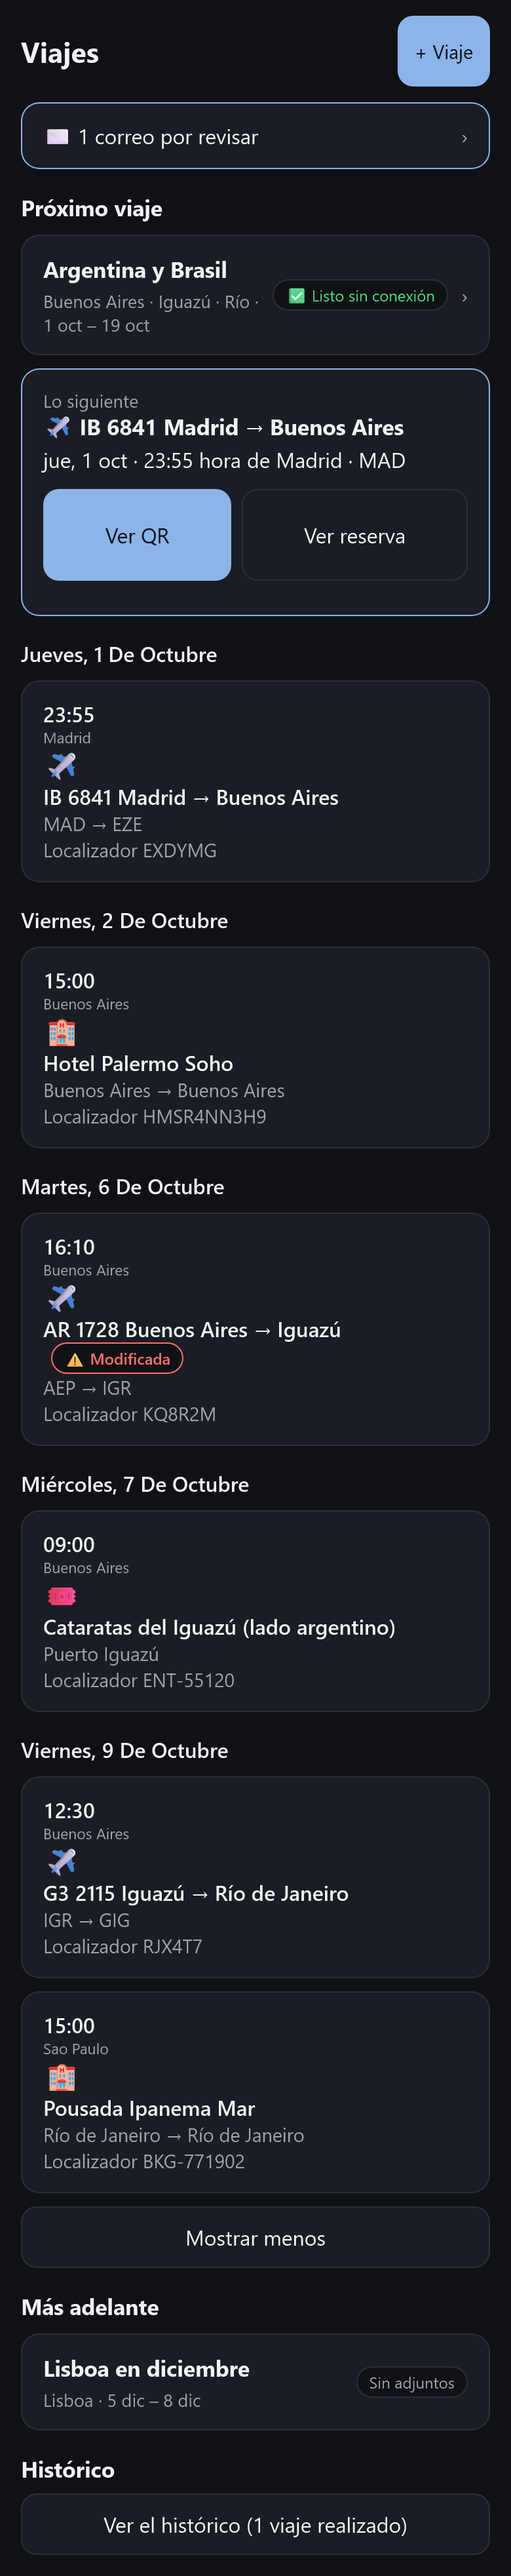
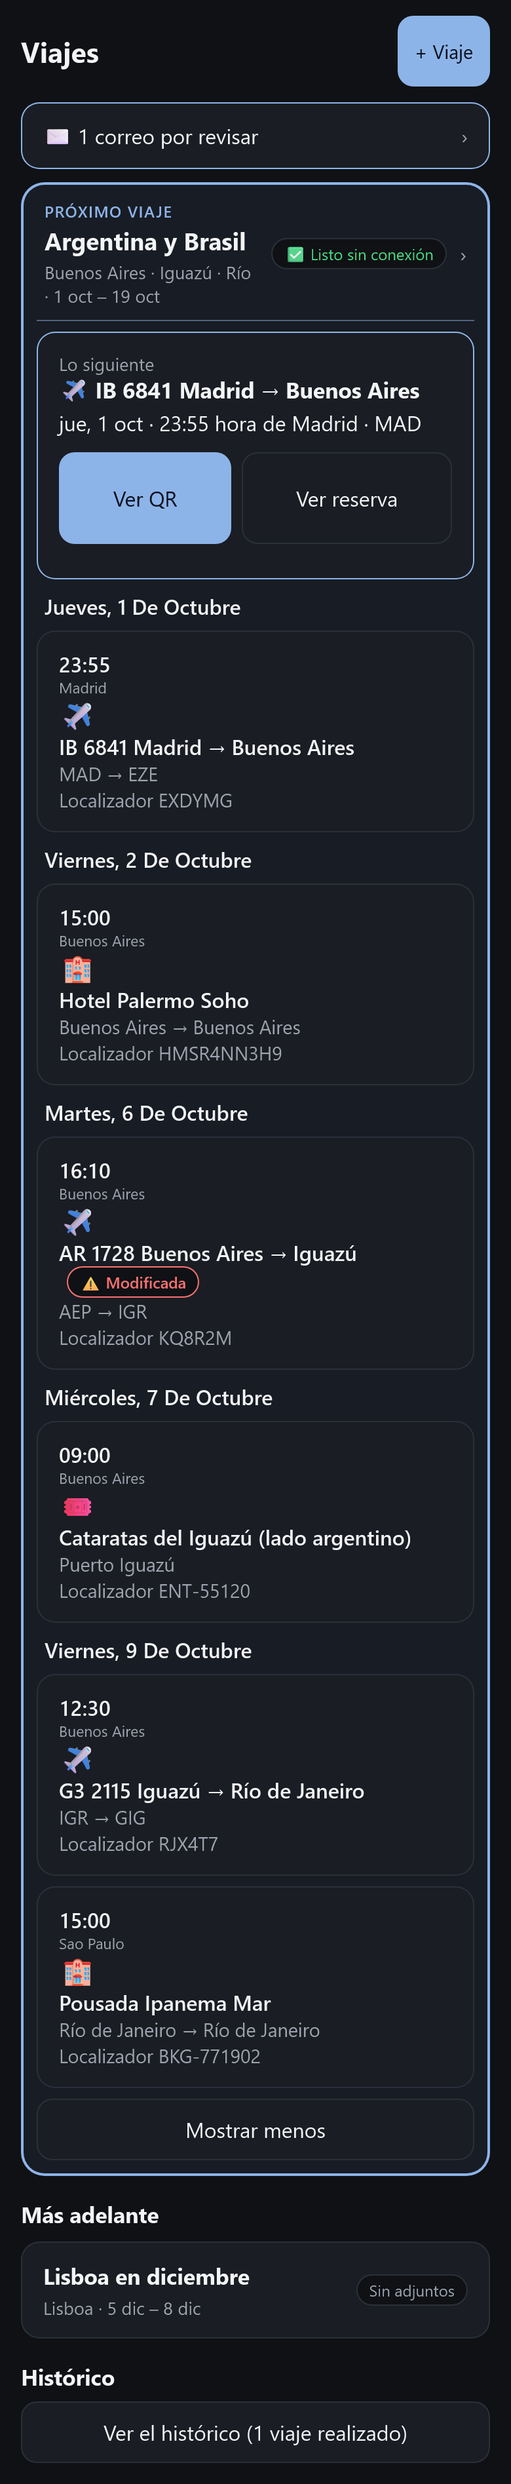
Home: the current trip and its bookings share one framed block (trip header, next booking, the rest nested) so they read as one unit; guide screenshots refreshed

diff --git a/web/src/pages/HomePage.tsx b/web/src/pages/HomePage.tsx
@@ -92,11 +92,11 @@ function CurrentTrip({ trip, inProgress }: { trip: Trip; inProgress: boolean }) 
   const hidden = bookings.length - upcoming.length;
 
   return (
-    <>
-      <h2>{inProgress ? 'Viaje en curso' : 'Próximo viaje'}</h2>
-      <Link className="card" to={`/trips/${trip.id}`}>
+    <section className="trip-group" aria-label={trip.title}>
+      <Link className="trip-head" to={`/trips/${trip.id}`}>
         <div className="row between">
           <div className="grow">
+            <div className="eyebrow">{inProgress ? 'Viaje en curso' : 'Próximo viaje'}</div>
             <h3>{trip.title}</h3>
             <div className="muted small">
               {[trip.destination, formatRange(trip.startDate, trip.endDate)].filter(Boolean).join(' · ')}
@@ -140,7 +140,7 @@ function CurrentTrip({ trip, inProgress }: { trip: Trip; inProgress: boolean }) 
 
       {!expanded && after.length > 0 && (
         <>
-          <div className="muted small" style={{ margin: '4px 0' }}>Después</div>
+          <div className="muted small after">Después, en este viaje</div>
           {after.map((booking) => (
             <BookingCard key={booking.id} booking={booking} showDay={formatDay(booking.startLocal)} />
           ))}
@@ -162,7 +162,7 @@ function CurrentTrip({ trip, inProgress }: { trip: Trip; inProgress: boolean }) 
           {expanded ? 'Mostrar menos' : `Ver las ${bookings.length} reservas del viaje por días`}
         </button>
       )}
-    </>
+    </section>
   );
 }
 

diff --git a/web/src/app/theme.css b/web/src/app/theme.css
@@ -269,3 +269,31 @@ button.secondary { background: transparent; border: 1px solid var(--border); }
 .card.done { border-left: 4px solid var(--warn); }
 .badge.done { color: var(--warn); border-color: var(--warn); margin-left: 6px; }
 .year { font-size: 0.8rem; color: var(--muted); margin: 12px 0 4px; text-transform: uppercase; letter-spacing: 0.04em; }
+
+/* Bloque del viaje en curso en Inicio: la cabecera del viaje y sus reservas dentro del mismo marco. */
+.trip-group {
+  border: 2px solid var(--primary);
+  border-radius: 18px;
+  padding: 0 10px 10px;
+  margin: 8px 0 16px;
+  background: color-mix(in srgb, var(--primary) 7%, var(--bg));
+}
+.trip-group .trip-head {
+  display: block;
+  color: inherit;
+  text-decoration: none;
+  padding: 12px 6px 10px;
+  border-bottom: 1px solid color-mix(in srgb, var(--primary) 40%, var(--border));
+  margin-bottom: 4px;
+}
+.trip-group .trip-head .eyebrow {
+  font-size: 0.75rem;
+  text-transform: uppercase;
+  letter-spacing: 0.06em;
+  color: var(--primary);
+  font-weight: 600;
+}
+.trip-group .trip-head h3 { margin: 2px 0; font-size: 1.15rem; }
+.trip-group .card { margin: 8px 0; }
+.trip-group .day, .trip-group .after { margin: 10px 6px 2px; }
+.trip-group .btn.block { margin-top: 8px; }
